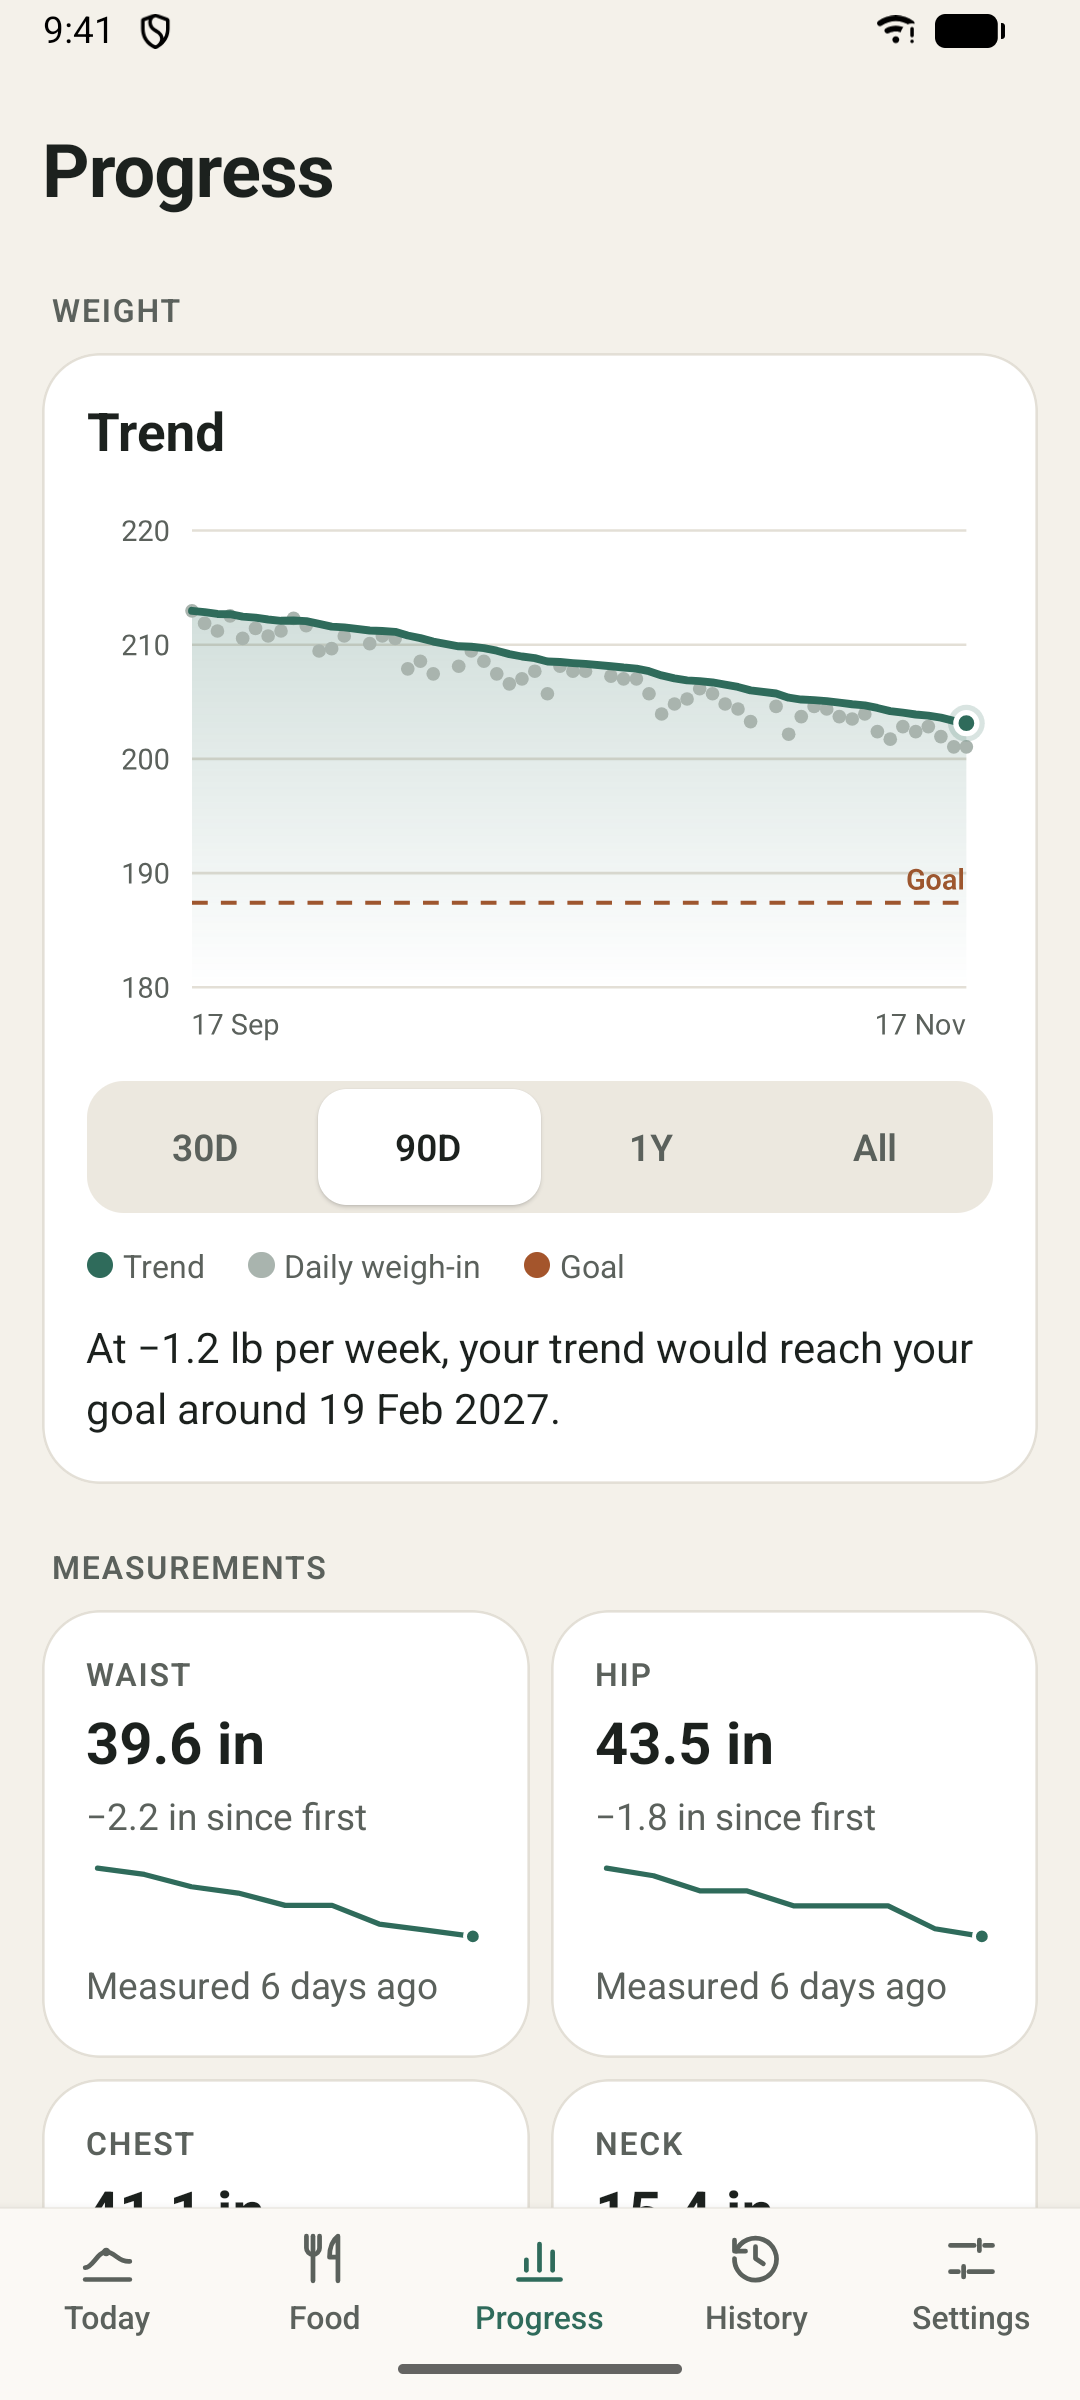
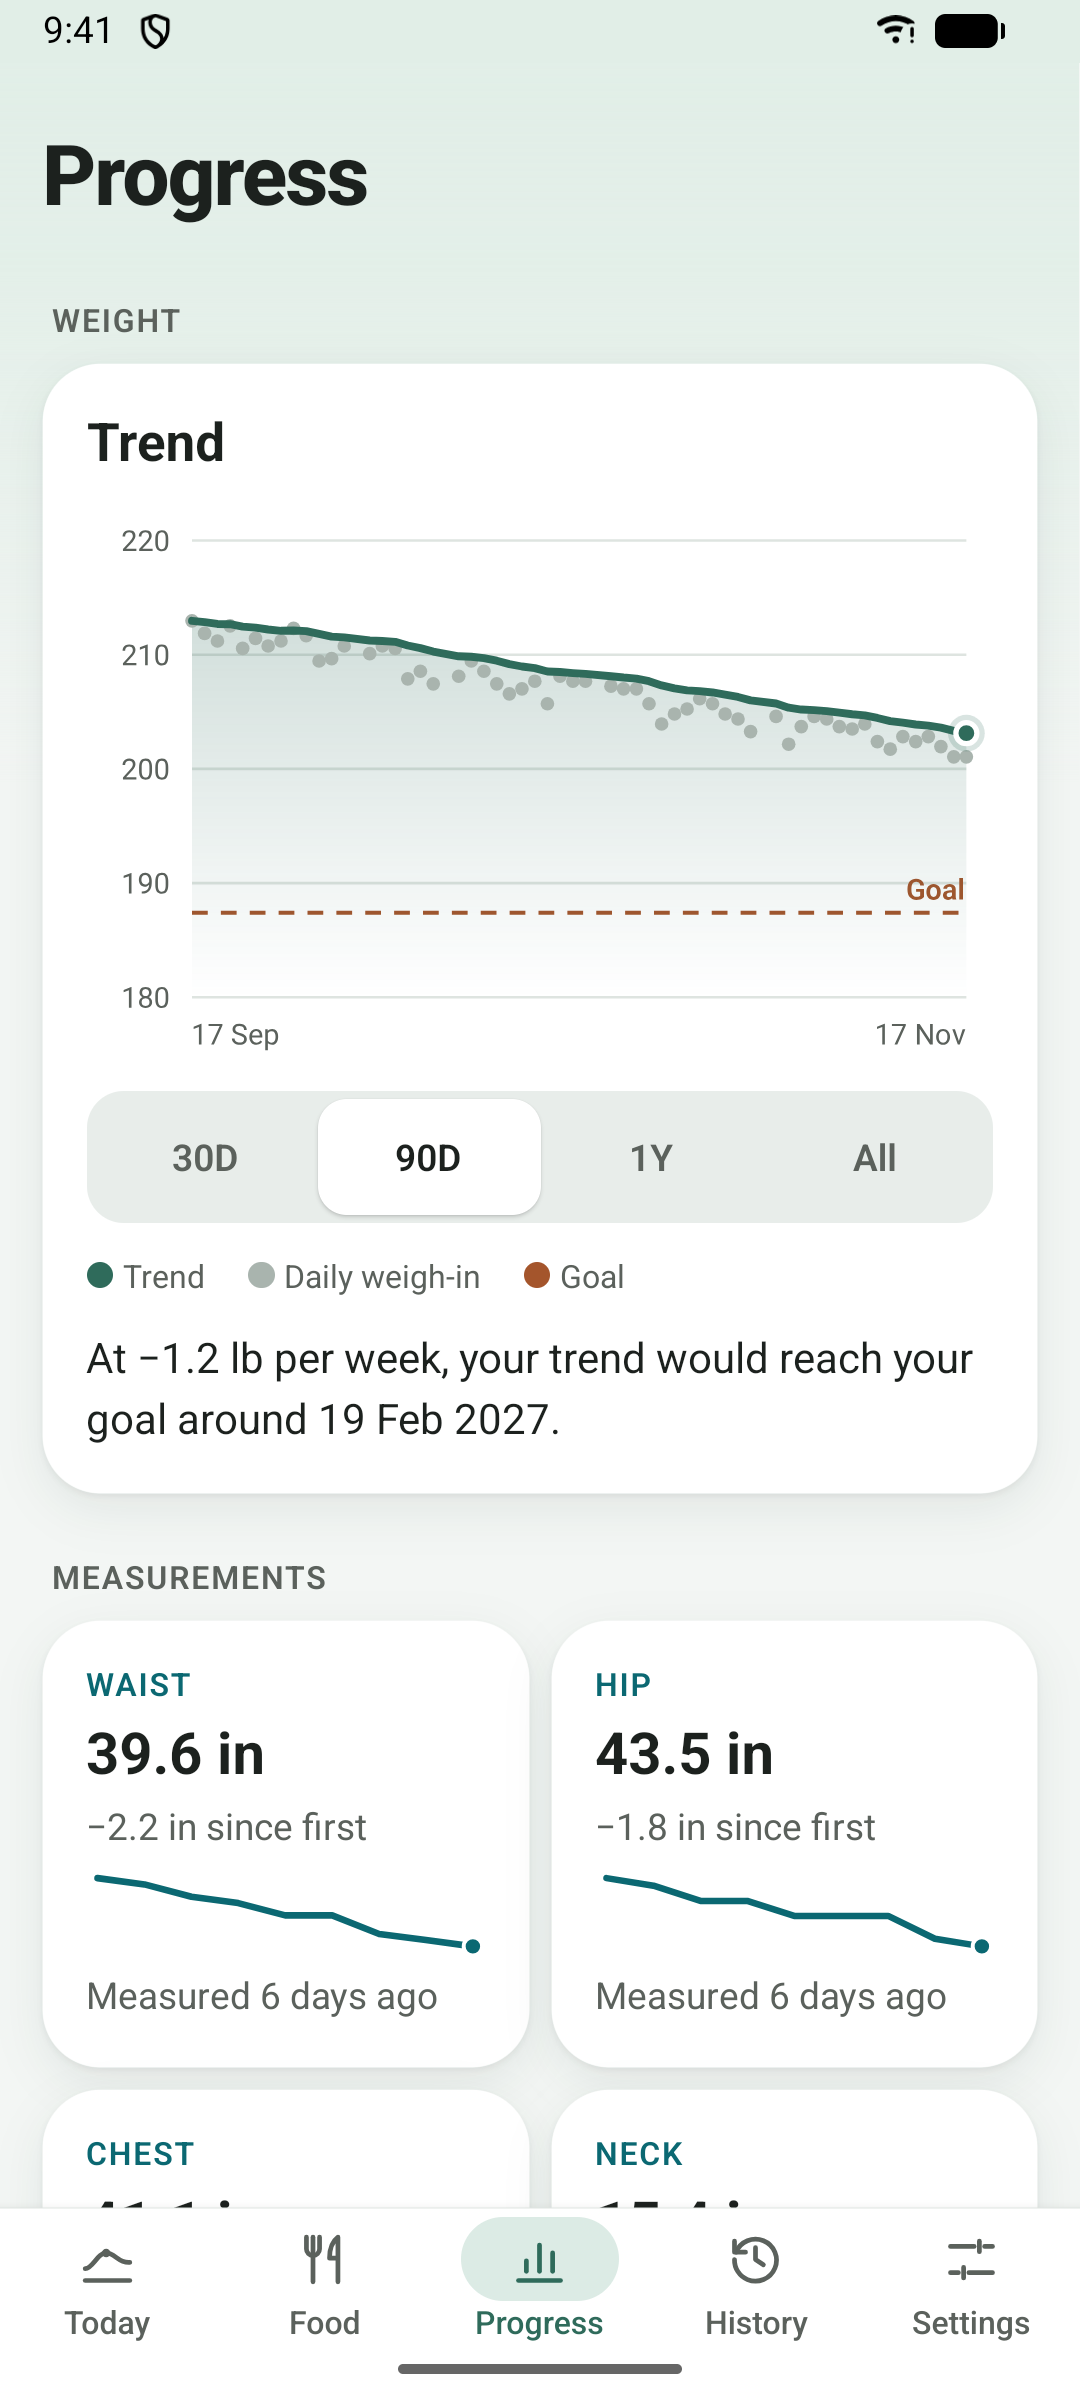
chore(store): screenshots of the refreshed design, both languages

diff --git a/scripts/store_screens.py b/scripts/store_screens.py
@@ -25,7 +25,7 @@ OUT = ROOT / "docs" / "store" / "screenshots"
 
 W, H = 1080, 1920
 SUPERSAMPLE = 2
-PAPER = (244, 241, 234)
+PAPER = (243, 246, 244)
 SAGE = (47, 107, 91)
 INK = (28, 33, 30)
 MUTED = (91, 97, 92)
